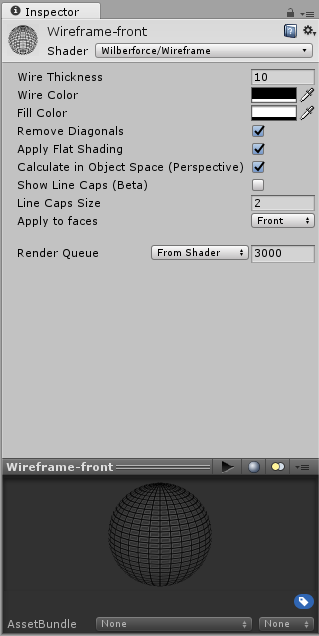
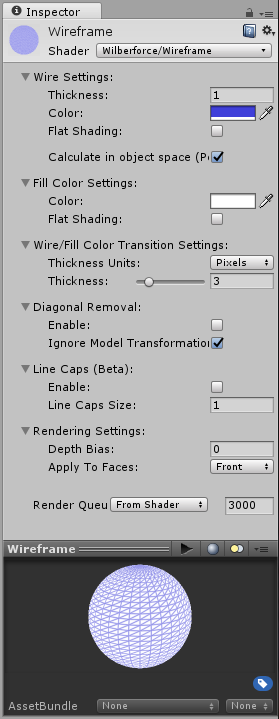
New wireframe manual (v 0.9.1)

diff --git a/wireframe/index.md b/wireframe/index.md
@@ -65,31 +65,67 @@ WW material behaviour is controlled by following parameters:
 **Wire Thickness**
 How thick the line appears.
 
-**Wire Color**
-Color of the line (can be transparent)
+## Wire Settings
 
-**Fill Color**
-Color of the rest of the face (can be transparent)
+**Thickness**
+How thick the line appears.
 
-**Remove Diagonals**
-Skips longest triangle edges to create a quad wireframe
+**Color**
+Color of the line (can be transparent).
 
-**Apply Flat Shading**
-Faces are shaded based on their orientation to camera.
+**Flat Shading**
+Wires are shaded based on their orientation to camera (cosine of surface normal and view vector).
 
 **Calculate in Object Space (Perspective)**
 Perspective display - line appears thinner as distance from camera increases.
 
-**Show Line Caps (beta)**
-Switch on to display line caps (making the line thicker in the corners)
+## Fill Color Settings
+
+**Color**
+Color of the rest of the face (can be transparent).
+
+**Flat Shading**
+Rest of the face is shaded based on their orientation to camera (cosine of surface normal and view vector).
+
+## Wire/Fill Color Transition Settings
+
+Controls for appearance of transition between wire and fill color (anti-aliasing).
+
+**Thickness Units**
+Units in which is thickness of the transition between wire and fill color specified.
+
+`Pixels`:  option is default and recommended; `Relative to Wire Thickness`: option will scale together with change in wire thickness
+
+**Thickness**
+Thickness/width of the transition.
+
+## Diagonal Removal
+
+Removes wire on longest edge of each triangle
+
+**Enable**
+Enables diagonal removal.
+
+**Ignore Model Transformations**
+This will not take transformations (position, rotation, scale) of model into account when removing diagonals. Recommended for dynamic meshes.
+
+## Line Caps (Beta)
+
+**Enable**
+Switch on to display line caps (making the line thicker in the corners).
 
 **Line Caps Size**
 How thick the line caps are.
 
-**Apply to faces**
-On what surfaces of the mesh will be effect applied.
+## Rendering Settings
 
-`Front`: default option; `Back`: use to make a backface material for "see-through" double-sided mesh.
+**Depth Biass**
+Offsets depth of wire by given amount - use this to combat Z-fighting or for interesting effect.
+
+**Apply to faces**
+On what sides of surfaces will be effect applied.
+
+`Front`: default option; `Back`: use to make a backface material for "see-through" double-sided mesh. `Both`: both face sides visible
 
 # How to
 ## Basic usage
